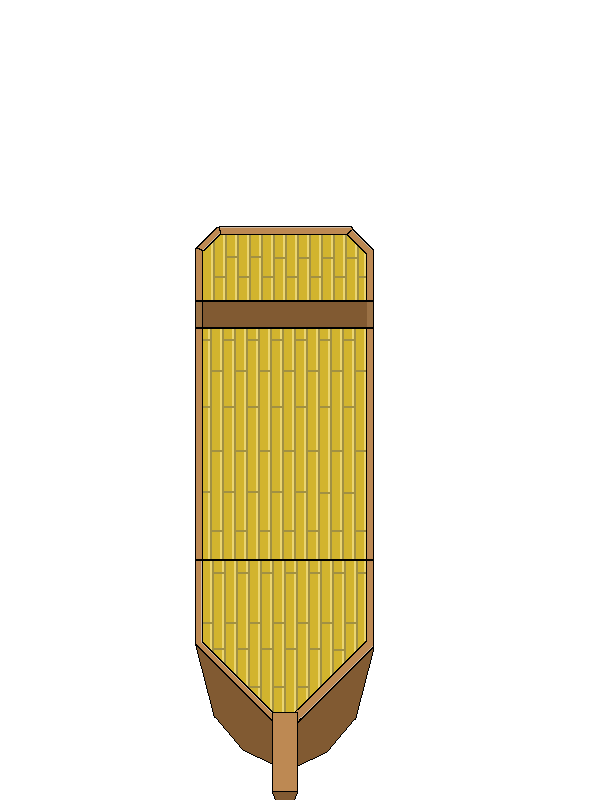
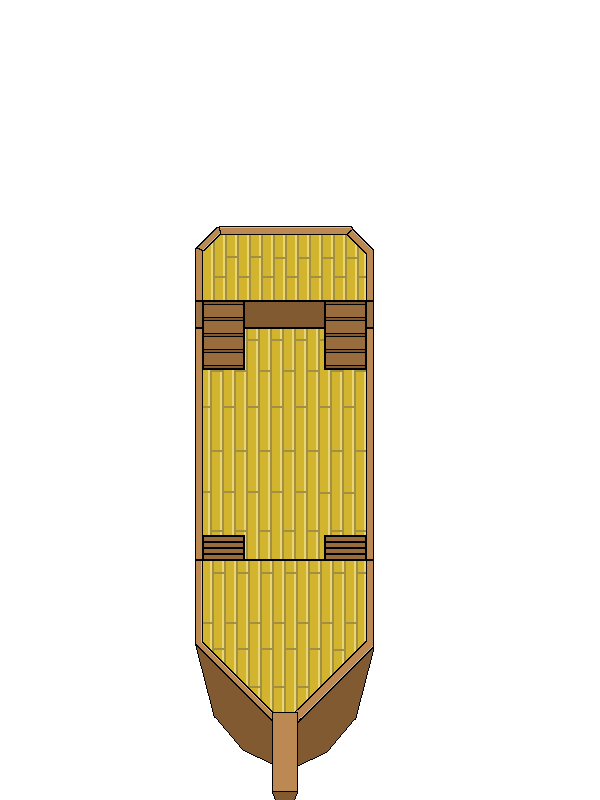
added hitboxes/colliders for ship

diff --git a/src/utils/Constants.ts b/src/utils/Constants.ts
@@ -541,7 +541,146 @@ export const ALL_SHIPS = [
           height: 2,
         },
       ],
-      up: [],
+      up: [
+        {
+          xOffset: -83,
+          yOffset: 120,
+          width: 2,
+          height: 400,
+        },
+        {
+          xOffset: 88,
+          yOffset: 120,
+          width: 2,
+          height: 400,
+        },
+        {
+          xOffset: 5,
+          yOffset: 335,
+          width: 125,
+          height: 2,
+        },
+        {
+          xOffset: -75,
+          yOffset: 325,
+          width: 20,
+          height: 2,
+        },
+        {
+          xOffset: 80,
+          yOffset: 325,
+          width: 20,
+          height: 2,
+        },
+        {
+          xOffset: 2,
+          yOffset: 265,
+          width: 80,
+          height: 2,
+        },
+        {
+          xOffset: 40,
+          yOffset: 250,
+          width: 2,
+          height: 25,
+        },
+        {
+          xOffset: -38,
+          yOffset: 250,
+          width: 2,
+          height: 25,
+        },
+        {
+          xOffset: 1,
+          yOffset: 20,
+          width: 80,
+          height: 2,
+        },
+        {
+          xOffset: -38,
+          yOffset: 41,
+          width: 2,
+          height: 65,
+        },
+        {
+          xOffset: 42,
+          yOffset: 38,
+          width: 2,
+          height: 65,
+        },
+        {
+          xOffset: 1,
+          yOffset: 8,
+          width: 80,
+          height: 2,
+        },
+        {
+          xOffset: -72,
+          yOffset: -90,
+          width: 20,
+          height: 2,
+        },
+        {
+          xOffset: -59,
+          yOffset: -100,
+          width: 20,
+          height: 2,
+        },
+        {
+          xOffset: -50,
+          yOffset: -110,
+          width: 20,
+          height: 2,
+        },
+        {
+          xOffset: -40,
+          yOffset: -120,
+          width: 20,
+          height: 2,
+        },
+        {
+          xOffset: -30,
+          yOffset: -130,
+          width: 20,
+          height: 2,
+        },
+        {
+          xOffset: 2,
+          yOffset: -140,
+          width: 40,
+          height: 2,
+        },
+        {
+          xOffset: 35,
+          yOffset: -130,
+          width: 20,
+          height: 2,
+        },
+        {
+          xOffset: 45,
+          yOffset: -120,
+          width: 20,
+          height: 2,
+        },
+        {
+          xOffset: 56,
+          yOffset: -110,
+          width: 20,
+          height: 2,
+        },
+        {
+          xOffset: 65,
+          yOffset: -100,
+          width: 20,
+          height: 2,
+        },
+        {
+          xOffset: 78,
+          yOffset: -87,
+          width: 20,
+          height: 2,
+        },
+      ],
       down: [],
     },
     hitboxConfig: {
@@ -565,8 +704,34 @@ export const ALL_SHIPS = [
           height: 251,
         },
       ],
-      right: [],
-      up: [],
+      right: [
+        {
+          xOffset: -270,
+          yOffset: 50,
+          width: 100,
+          height: 231,
+        },
+        {
+          xOffset: -171,
+          yOffset: 80,
+          width: 264,
+          height: 231,
+        },
+        {
+          xOffset: 75,
+          yOffset: 50,
+          width: 100,
+          height: 251,
+        },
+      ],
+      up: [
+        {
+          xOffset: -75,
+          yOffset: -100,
+          height: 540,
+          width: 185,
+        },
+      ],
       down: [],
     },
   },

diff --git a/src/objects/Ship.ts b/src/objects/Ship.ts
@@ -31,7 +31,7 @@ export class Ship {
   public hullSprite: Phaser.GameObjects.Sprite
   // public sailsSprite: Phaser.GameObjects.Sprite
   public scene: Game
-  public currDirection = Direction.RIGHT
+  public currDirection = Direction.UP
   public wallImages: Phaser.Physics.Arcade.Image[] = []
   public hitboxImages: Phaser.Physics.Arcade.Image[] = []
 
@@ -39,7 +39,7 @@ export class Ship {
     this.scene = scene
     const { x, y } = position
     const { hullImages, sailsImages, colliderConfig, hitboxConfig } = shipConfig
-    this.hullSprite = this.scene.add.sprite(x, y, hullImages.side)
+    this.hullSprite = this.scene.add.sprite(x, y, hullImages.up)
     this.group = this.scene.add.group()
     // this.sailsSprite = this.scene.physics.add.sprite(x, y, sailsImages.side)
 

diff --git a/src/scenes/Game.ts b/src/scenes/Game.ts
@@ -105,7 +105,7 @@ export default class Game extends Phaser.Scene {
 
   initPlayer() {
     // TODO: Fix this
-    this.player = this.add.player(900, 1100, 'player')
+    this.player = this.add.player(1000, 1000, 'player')
     this.player.setDepth(1)
     this.player.setOnEquipWeaponHandler(() => {
       this.updateCollidersOnWeaponEquip()
